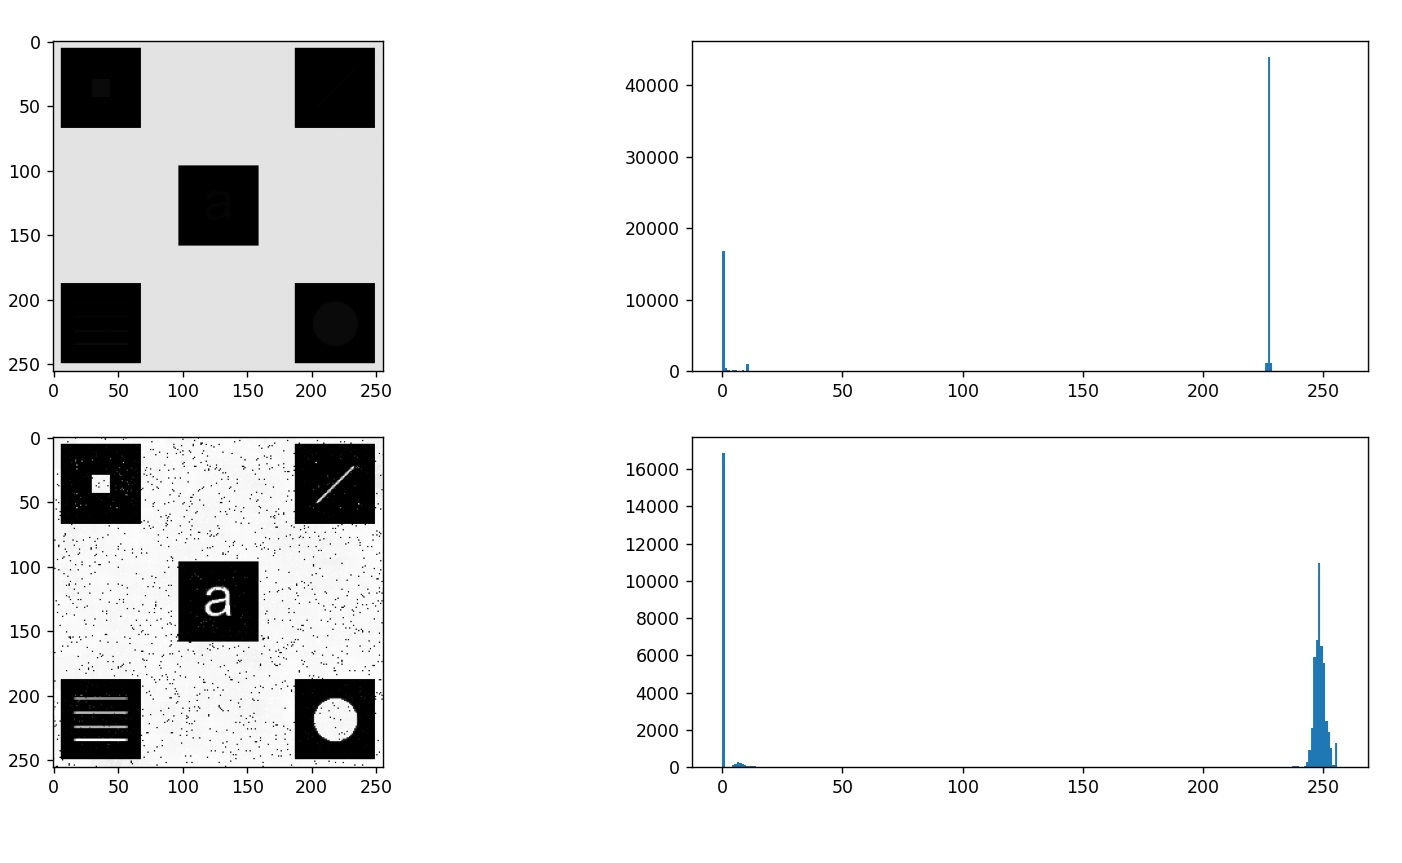
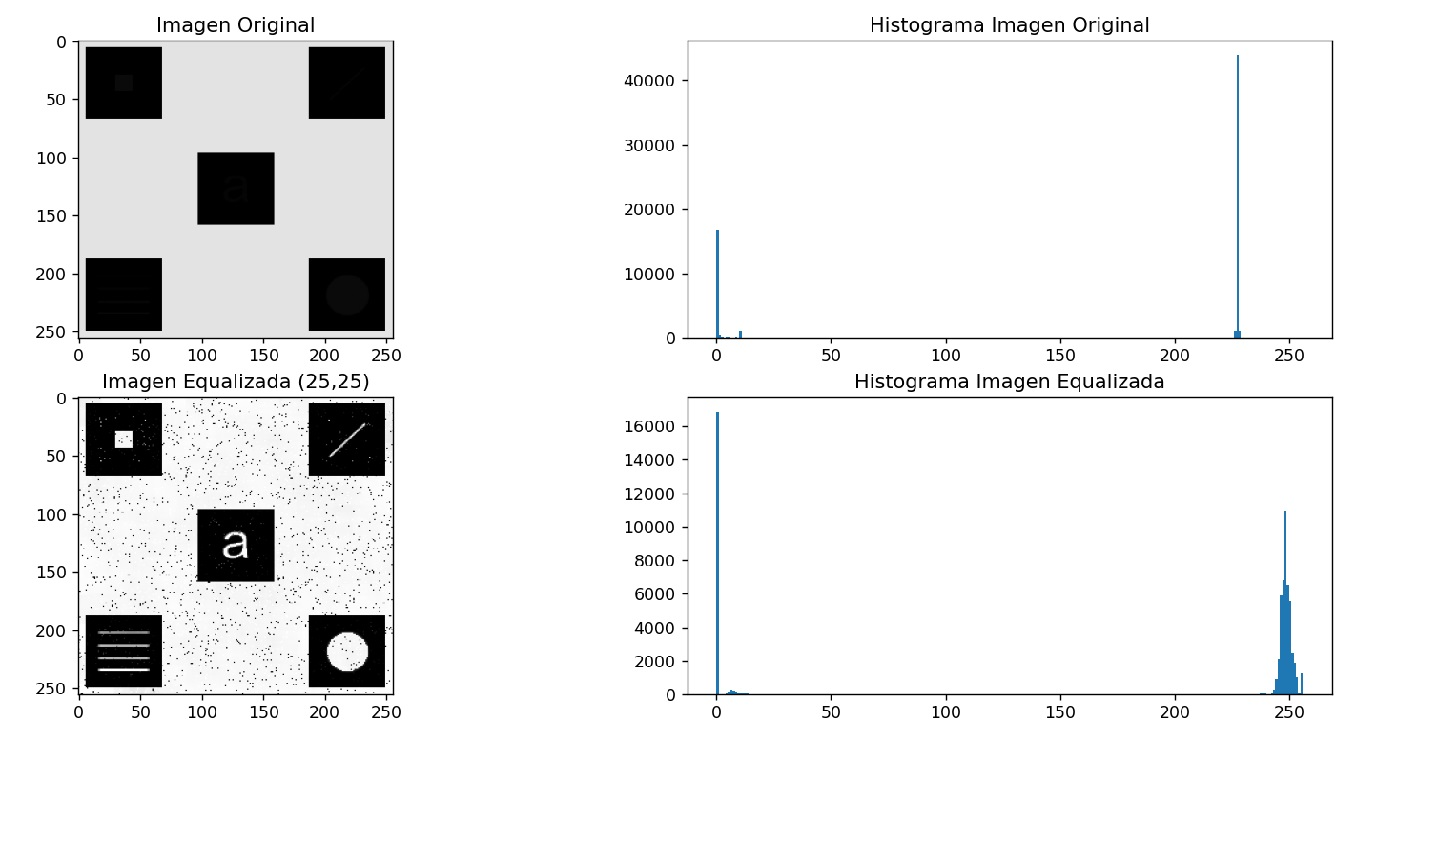
Ejercicio 1 - corrección Gráficos de histogramas/Ejemplo con cv2.equalizeHist()

diff --git a/Ejercicio1/TP1_Ejercicio1.py b/Ejercicio1/TP1_Ejercicio1.py
@@ -90,6 +90,24 @@ plt.subplot(224)
 plt.hist(equalized_image.flatten(), 256, [0, 256])
 plt.show()
 
+# Primer gráfico: Imagen Original
+ax1 = plt.subplot(221)
+plt.imshow(image, cmap='gray', vmin=0, vmax=255)
+ax1.set_title('Imagen Original')
+# Segundo gráfico: Histograma de la imagen original
+ax2 = plt.subplot(222)
+plt.hist(image.flatten(), 256, [0, 256])
+ax2.set_title('Histograma Imagen Original')
+# Tercer gráfico: Imagen Equalizada
+ax3 = plt.subplot(223, sharex=ax1, sharey=ax1)
+plt.imshow(equalized_image, cmap='gray', vmin=0, vmax=255)
+ax3.set_title(f'Imagen Equalizada ({window_size[0]},{window_size[1]})')
+# Cuarto gráfico: Histograma de la imagen equalizada
+ax4 = plt.subplot(224)
+plt.hist(equalized_image.flatten(), 256, [0, 256])
+ax4.set_title('Histograma Imagen Equalizada')
+plt.show()
+
 
 # Aplicar ecualización local con distintos tamaños de ventana
 window_sizes = [(3, 3), (5, 5), (9, 9), (13, 13), (19, 19), (25, 25)]
@@ -110,17 +128,20 @@ plt.tight_layout()
 plt.show()
 
 
-# Versión con cv2.equalizeHist()
-img_heq = cv2.equalizeHist(image)
-ax1=plt.subplot(221)
-plt.imshow(image,cmap='gray',vmin=0,vmax=255)
-
-plt.subplot(222)
+# Comparación con la ecualización global con cv2.equalizeHist()
+ax1 = plt.subplot(221)
+plt.imshow(image, cmap='gray', vmin=0, vmax=255)
+ax1.set_title('Imagen Original')
+# Segundo gráfico: Histograma de la imagen original
+ax2 = plt.subplot(222)
 plt.hist(image.flatten(), 256, [0, 256])
-
-plt.subplot(223,sharex=ax1,sharey=ax1)
-plt.imshow(img_heq,cmap='gray',vmin=0,vmax=255)
-
-plt.subplot(224)
+ax2.set_title('Histograma Imagen Original')
+# Tercer gráfico: Imagen Equalizada
+ax3 = plt.subplot(223, sharex=ax1, sharey=ax1)
+plt.imshow(img_heq, cmap='gray', vmin=0, vmax=255)
+ax3.set_title(f'Imagen Equalizada - Global ({window_size[0]},{window_size[1]})')
+# Cuarto gráfico: Histograma de la imagen equalizada
+ax4 = plt.subplot(224)
 plt.hist(img_heq.flatten(), 256, [0, 256])
+ax4.set_title('Histograma Imagen Equalizada - Global')
 plt.show()
